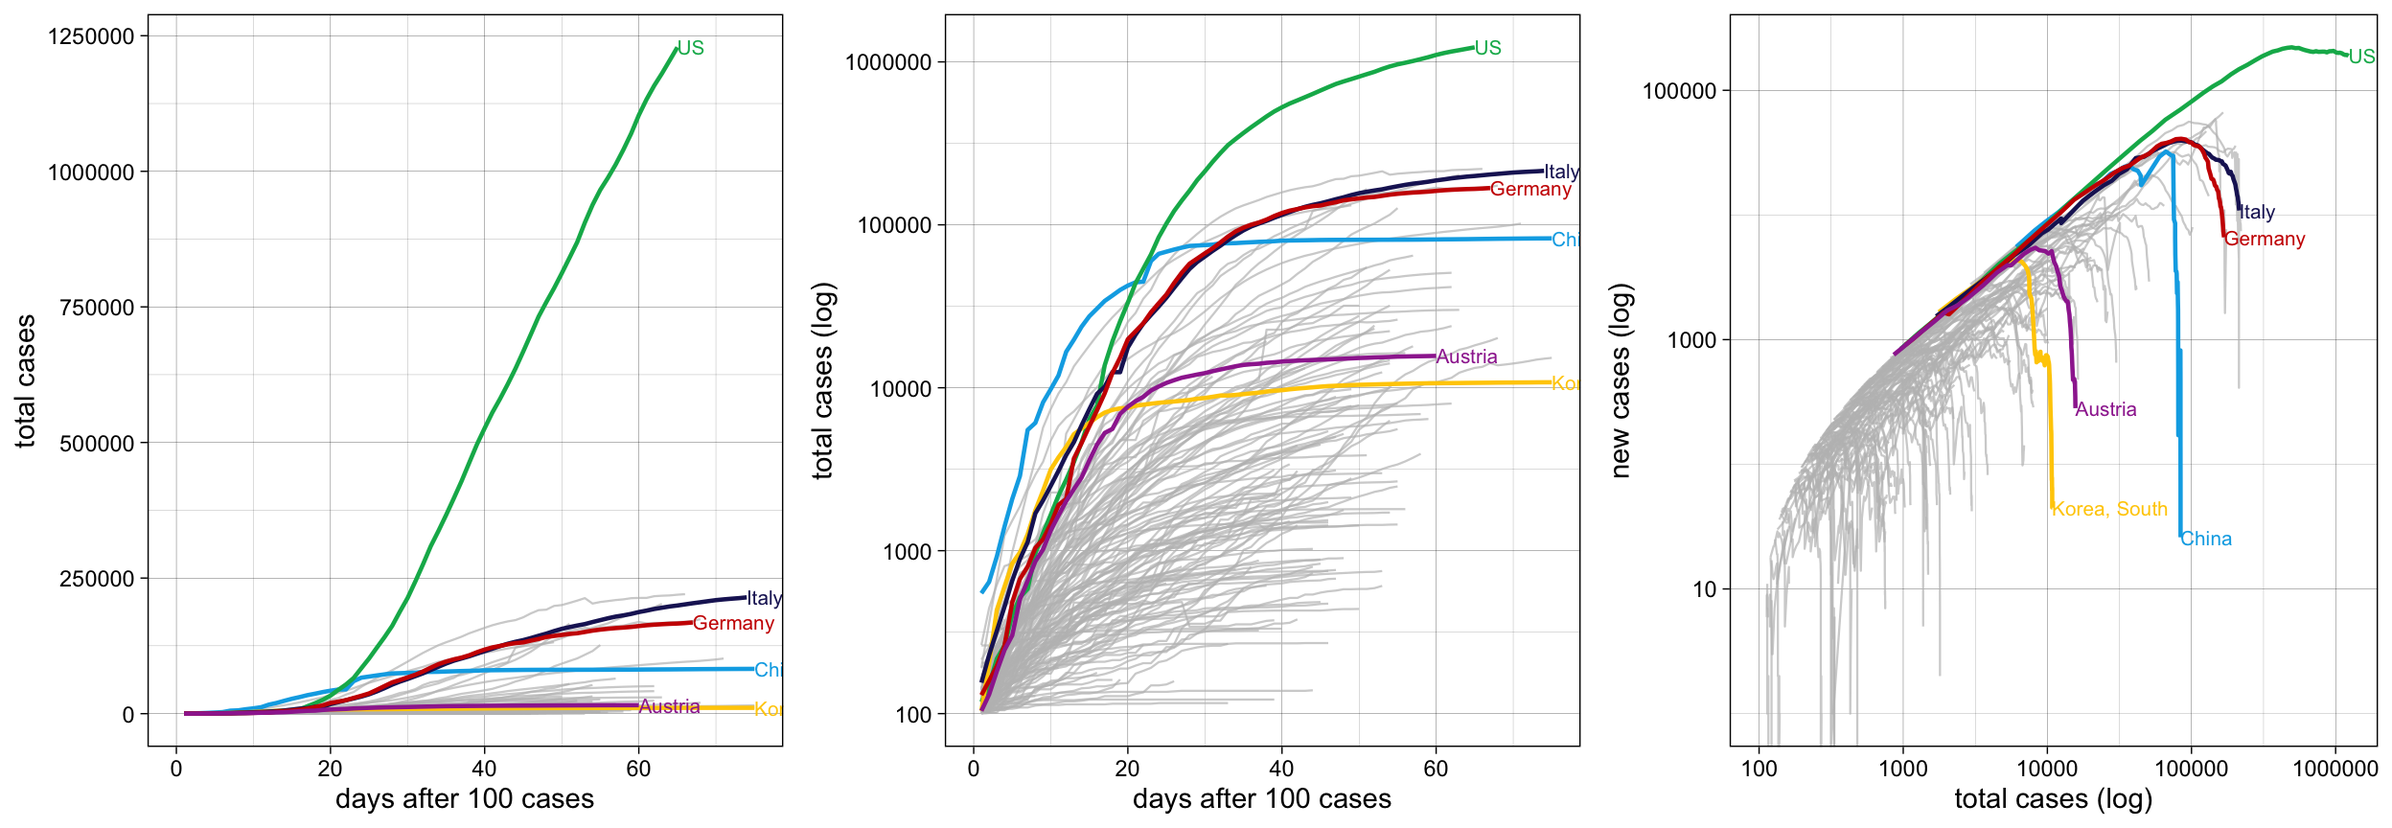
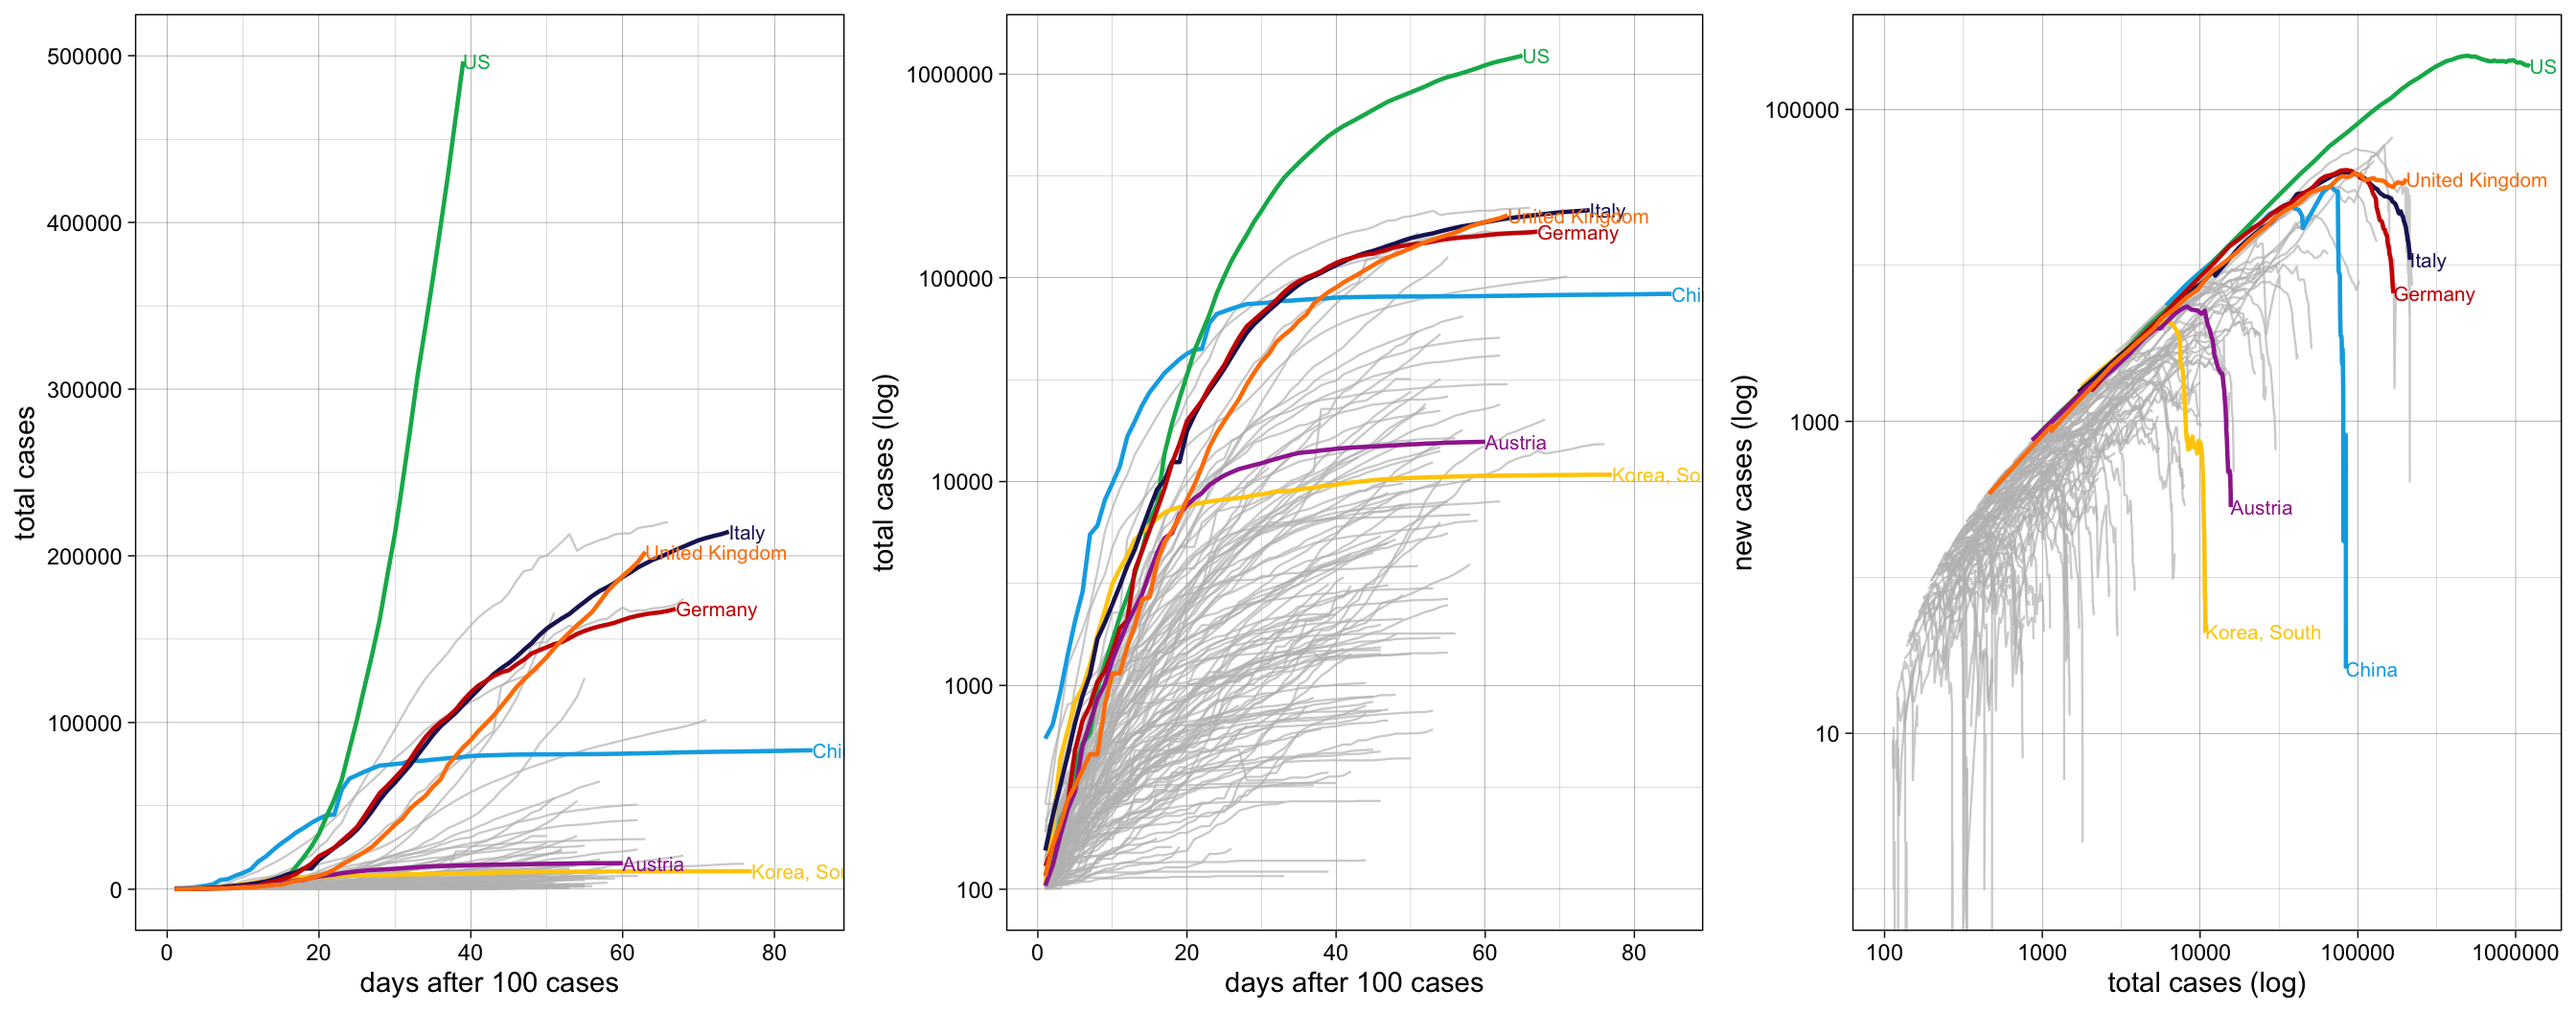
Update 07/05/2020

diff --git a/README.md b/README.md
@@ -60,7 +60,7 @@ these visualization in commerce is strictly prohibited.
 #### Will these figures be updated?
 
 Yes, I will update these figures every morning. The last update was made
-on 2020-05-07 15:21:27. The data of the John Hopkins University,
+on 2020-05-07 15:32:45. The data of the John Hopkins University,
 however, are always updated at 23:59. What you see is hence the
 situation on 2020-05-06 at 23:59:00. Also bear in mind that the
 reporting of cases is somewhat delayed so that it is very likely that
@@ -278,14 +278,17 @@ regard.
 
 We see clearly that each plot has benefits and weaknesses. The first
 example provides perhaps the best comparison of the total numbers and
-shows quite drastically how exponential growth curves look likes.
-S-curves represent positive developments towards a slower growth. Yet,
-changes are barely identifiable. The second example makes the actual
-growth more comparable and by logarithmizing the y-axsis, we can
-actually see changes in the growth. Here, it seesm that most countries
-are actually starting to slow the growth. Finally, the last example is
-hard to understand generally, but it shows best whether some sort of
-measure is working. The curve needs to sink drastically, otherwise, the
-growth is continuing uncontrollibly.
+shows quite drastically how exponential growth curves look likes (bear
+in mind that I cut off the growth curve of the US, which actually
+extends to more than 1 million cases. I did this to make the other
+growth curves more identifiable). S-curves represent positive
+developments towards a slower growth. Yet, changes are barely
+identifiable. The second example makes the actual growth more comparable
+and by logarithmizing the y-axsis, we can actually see changes in the
+growth. Here, it seesm that most countries are actually starting to slow
+the growth. Finally, the last example is hard to understand generally,
+but it shows best whether some sort of measure is working. The curve
+needs to sink drastically, otherwise, the growth is continuing
+uncontrollibly.
 
 <img src="figures/unnamed-chunk-7-1.png" width="100%" />
